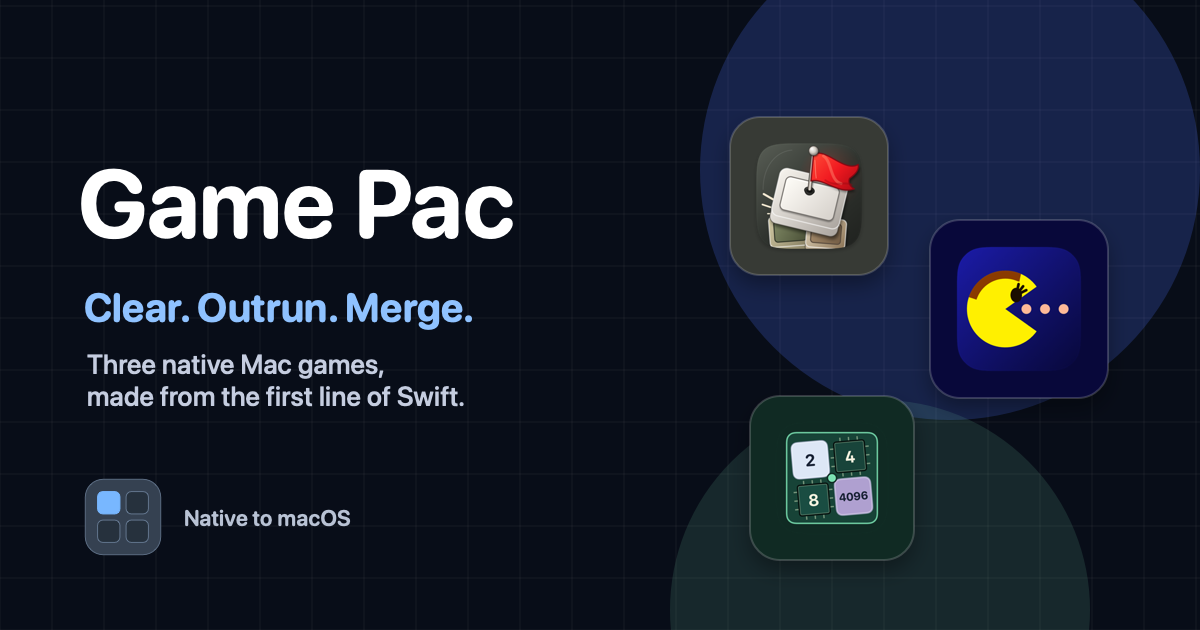
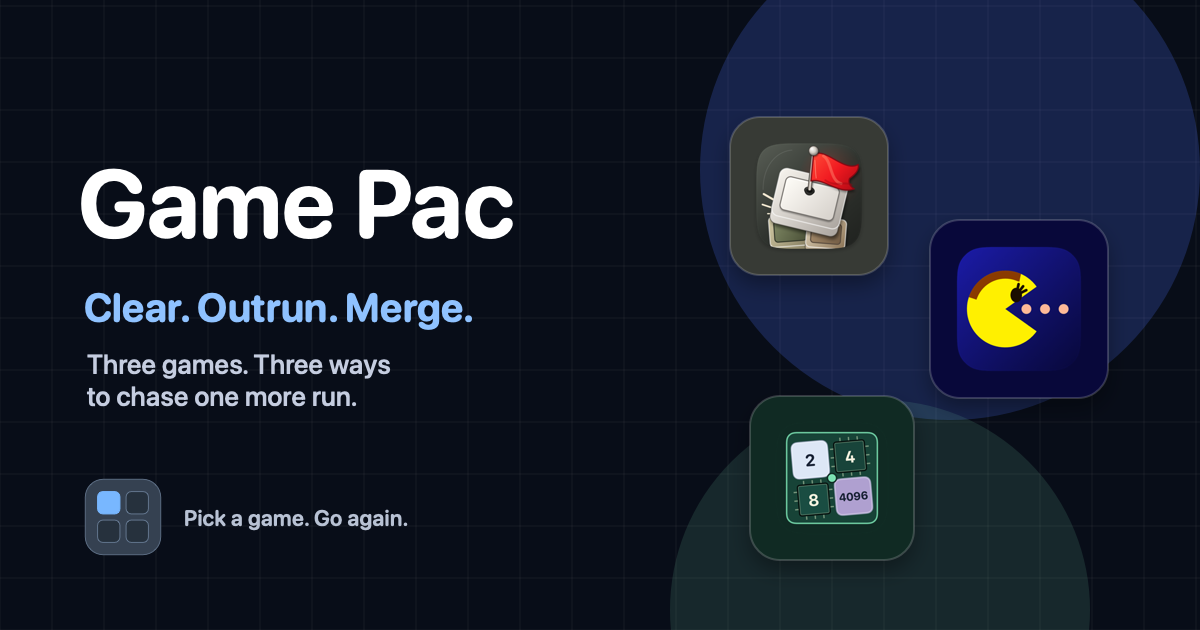
Rewrite site copy around play

Changed region(s): [[0.0617, 0.5429, 0.4008, 0.6635], [0.1542, 0.8143, 0.3392, 0.8444]]

diff --git a/index.html b/index.html
@@ -4,21 +4,21 @@
     <meta charset="utf-8">
     <meta name="viewport" content="width=device-width, initial-scale=1">
     <meta name="color-scheme" content="light dark">
-    <title>Game Pac — Three Native Games for Mac</title>
+    <title>Game Pac — Clear. Outrun. Merge.</title>
     <meta
       name="description"
-      content="Clear mines, chase high scores, and merge tiles in three native macOS games built by hand in SwiftUI."
+      content="Clear minefields, outrun four pursuers, and build bigger tiles in three games for Mac."
     >
     <meta property="og:type" content="website">
     <meta property="og:site_name" content="Game Pac">
-    <meta property="og:title" content="Game Pac — Three Native Games for Mac">
+    <meta property="og:title" content="Game Pac — Clear. Outrun. Merge.">
     <meta
       property="og:description"
-      content="Clear mines, chase high scores, and merge tiles in three native Mac games."
+      content="Clear the board. Outrun the chase. Build the next big tile."
     >
     <!-- Replace with the absolute GitHub Pages URL after the site is published. -->
     <meta property="og:image" content="./assets/og-game-pac.png">
-    <meta property="og:image:alt" content="Game Pac and its three native Mac games">
+    <meta property="og:image:alt" content="Mine Sweeper, Dottie, and Tilly in the Game Pac collection">
     <meta name="theme-color" content="#f7f6fb" media="(prefers-color-scheme: light)">
     <meta name="theme-color" content="#090f20" media="(prefers-color-scheme: dark)">
     <link rel="icon" type="image/png" href="./assets/favicon.png">
@@ -37,19 +37,19 @@
       </a>
       <nav aria-label="Primary navigation">
         <a href="#games">Games</a>
-        <a href="#collection">Why Game Pac</a>
-        <a href="#launcher">What’s Next</a>
+        <a href="#collection">One More Round</a>
+        <a href="#launcher">Coming Soon</a>
       </nav>
     </header>
 
     <main id="main-content">
       <section class="hero" id="top" aria-labelledby="hero-title">
         <div class="hero-copy">
-          <p class="eyebrow">Three native Mac games</p>
+          <p class="eyebrow">Three games. One more go.</p>
           <h1 id="hero-title">Game Pac</h1>
           <p class="hero-tagline">Clear. Outrun. Merge.</p>
           <p class="hero-pitch">
-            Clear a minefield. Chase a high score. Build an impossible tile. Every game is made for the Mac from the first line of Swift to the last note of sound.
+            Clear the minefield, outsmart the chase, or keep the board alive long enough to build something huge. Pick a game and go again.
           </p>
           <div class="hero-actions">
             <a class="button button-primary" href="#games">Choose a Game</a>
@@ -61,11 +61,11 @@
           <span class="maze-trail" aria-hidden="true"></span>
           <a class="hero-game hero-game-minesweeper" href="#minesweeper">
             <img src="./assets/minesweeper-icon.png" alt="" width="128" height="128">
-            <span><small>Think</small><strong>Mine Sweeper</strong></span>
+            <span><small>Clear</small><strong>Mine Sweeper</strong></span>
           </a>
           <a class="hero-game hero-game-dottie" href="#dottie">
             <img src="./assets/dottie-icon.png" alt="" width="144" height="144">
-            <span><small>Dash</small><strong>Dottie</strong></span>
+            <span><small>Chase</small><strong>Dottie</strong></span>
           </a>
           <a class="hero-game hero-game-tilly" href="#tilly">
             <img src="./assets/tilly-icon.png" alt="" width="128" height="128">
@@ -76,9 +76,9 @@
 
       <section class="games-section" id="games" aria-labelledby="games-title">
         <div class="section-heading">
-          <p class="eyebrow">Pick your play style</p>
-          <h2 id="games-title">Three ways to lose track of time.</h2>
-          <p>Thoughtful puzzles, quick arcade turns, and plenty of room for one more try.</p>
+          <p class="eyebrow">Choose your challenge</p>
+          <h2 id="games-title">Which one has your name on it?</h2>
+          <p>Pick a board, chase a score, and tell yourself this is the last run.</p>
         </div>
 
         <article class="game-card game-card-minesweeper" id="minesweeper">
@@ -106,20 +106,20 @@
             </header>
             <p class="game-hook">Read the board. Mark the danger. Clear every safe square.</p>
             <p class="game-description">
-              The classic logic puzzle, rebuilt as a native Mac game with a guided lesson, persistent records, and four complete visual themes.
+              Follow the clues, flag the danger, and push for a faster clear across four board sizes. New to the grid? The guided lesson gets you moving.
             </p>
             <ul class="feature-list" aria-label="Mine Sweeper highlights">
               <li>4 themes</li>
               <li>4 board sizes</li>
-              <li>Keyboard + VoiceOver</li>
-              <li>Procedural sound</li>
+              <li>Guided lesson</li>
+              <li>Personal bests</li>
             </ul>
             <div class="game-actions">
               <!-- The permanent asset was verified live on 2026-08-25; make-dmg.sh now reproduces it for future releases. -->
               <a class="button button-primary" href="https://github.com/kudige79/minesweeper/releases/latest/download/MineSweeper.dmg">Download Mine Sweeper</a>
-              <a class="text-link" href="https://github.com/kudige79/minesweeper/releases/latest">View Releases</a>
+              <a class="text-link" href="https://github.com/kudige79/minesweeper/releases/latest">More Downloads</a>
             </div>
-            <p class="requirements">macOS 14 or later · Signed and notarized · Automatic updates</p>
+            <p class="requirements">macOS 14 or later</p>
           </div>
         </article>
 
@@ -146,21 +146,21 @@
                 <h3>Dottie</h3>
               </div>
             </header>
-            <p class="game-hook">Sweep the maze. Read the chase. Go back for every last dot.</p>
+            <p class="game-hook">Grab every dot. Outsmart the chase. Clear the maze.</p>
             <p class="game-description">
-              Steer through a precise 28 × 31 maze while four pursuers follow distinct chase rules. Every sprite and sound is generated in code.
+              Collect every dot while four pursuers close in with distinct chase rules. Turn up the difficulty when the maze starts feeling safe.
             </p>
             <ul class="feature-list" aria-label="Dottie highlights">
               <li>3 themes</li>
               <li>4 difficulty levels</li>
-              <li>Keyboard + VoiceOver</li>
+              <li>4 chase styles</li>
               <li>High scores</li>
             </ul>
             <div class="game-actions">
               <a class="button button-primary" href="https://github.com/kudige79/dottie/releases/latest/download/Dottie.dmg">Download Dottie</a>
-              <a class="text-link" href="https://github.com/kudige79/dottie/releases/latest">View Releases</a>
+              <a class="text-link" href="https://github.com/kudige79/dottie/releases/latest">More Downloads</a>
             </div>
-            <p class="requirements">macOS 14 or later · Signed and notarized · Automatic updates</p>
+            <p class="requirements">macOS 14 or later</p>
           </div>
         </article>
 
@@ -187,52 +187,52 @@
                 <h3>Tilly</h3>
               </div>
             </header>
-            <p class="game-hook">Slide. Merge. Make room for the next big number.</p>
+            <p class="game-hook">Slide. Merge. Make room for something huge.</p>
             <p class="game-description">
-              Every tile travels as far as it can, so a calm board can become a tight puzzle in one move. Build toward each board’s honest target.
+              Slide every tile as far as it can go, chain equal numbers, and protect the space you need to reach the next target.
             </p>
             <ul class="feature-list" aria-label="Tilly highlights">
               <li>2 themes</li>
-              <li>4 board sizes</li>
-              <li>Keyboard + VoiceOver</li>
-              <li>Records</li>
+              <li>4 challenges</li>
+              <li>Target tiles</li>
+              <li>Records to beat</li>
             </ul>
             <div class="game-actions">
               <!-- The permanent asset and v1.0.0 release were verified live on 2026-08-25. -->
               <a class="button button-primary" href="https://github.com/kudige79/tilly/releases/latest/download/Tilly.dmg">Download Tilly</a>
-              <a class="text-link" href="https://github.com/kudige79/tilly/releases/latest">View Releases</a>
+              <a class="text-link" href="https://github.com/kudige79/tilly/releases/latest">More Downloads</a>
             </div>
-            <p class="requirements">macOS 14 or later · Signed and notarized · Automatic updates</p>
+            <p class="requirements">macOS 14 or later</p>
           </div>
         </article>
       </section>
 
       <section class="collection-strip" id="collection" aria-labelledby="collection-title">
         <div class="section-heading section-heading-compact">
-          <p class="eyebrow">The craft behind the play</p>
-          <h2 id="collection-title">Made for the Mac. Made to be played.</h2>
-          <p>One shared standard underneath three very different games.</p>
+          <p class="eyebrow">Built for rematches</p>
+          <h2 id="collection-title">There’s always another run.</h2>
+          <p>Quick to start, hard to put down, and packed with reasons to come back.</p>
         </div>
         <div class="collection-grid">
           <div class="collection-point">
-            <span class="point-mark point-mark-native" aria-hidden="true">⌘</span>
-            <h3>Built for macOS</h3>
-            <p>Universal SwiftUI apps that feel at home on the Mac.</p>
+            <span class="point-mark point-mark-native" aria-hidden="true">GO</span>
+            <h3>Jump straight in</h3>
+            <p>Clear rules get you moving fast. The challenge takes care of the rest.</p>
           </div>
           <div class="collection-point">
-            <span class="point-mark point-mark-code" aria-hidden="true">{ }</span>
-            <h3>Crafted in code</h3>
-            <p>Boards, sprites, feedback, and sound are made for each game.</p>
+            <span class="point-mark point-mark-code" aria-hidden="true">PB</span>
+            <h3>Beat your best</h3>
+            <p>Faster clears, higher scores, and bigger tiles turn every run into a rematch.</p>
           </div>
           <div class="collection-point">
-            <span class="point-mark point-mark-play" aria-hidden="true">⌨</span>
-            <h3>Playable your way</h3>
-            <p>Keyboard-first controls with VoiceOver support throughout.</p>
+            <span class="point-mark point-mark-play" aria-hidden="true">MIX</span>
+            <h3>Change the challenge</h3>
+            <p>Swap boards, themes, and difficulty whenever you want a different kind of test.</p>
           </div>
           <div class="collection-point">
-            <span class="point-mark point-mark-update" aria-hidden="true">↻</span>
-            <h3>Ready to stay current</h3>
-            <p>Signed and notarized releases update themselves with Sparkle.</p>
+            <span class="point-mark point-mark-update" aria-hidden="true">+1</span>
+            <h3>Go one more time</h3>
+            <p>Every finish, close call, and bad move gives you a reason to hit restart.</p>
           </div>
         </div>
       </section>
@@ -251,9 +251,9 @@
         </div>
         <div>
           <p class="eyebrow">Next unlock</p>
-          <h2 id="launcher-title">The whole collection, one click away.</h2>
+          <h2 id="launcher-title">All three games. One place to play.</h2>
           <p>
-            The upcoming Game Pac app will discover, download, run, and update every title from one native Mac launcher.
+            The upcoming Game Pac app brings the whole collection together, so your next round is never far away.
           </p>
           <span class="coming-chip">Game Pac app · coming soon</span>
         </div>
@@ -262,10 +262,10 @@
 
     <footer>
       <div class="footer-copy">
-        <p class="footer-signoff">Game Pac — native games made for macOS.</p>
+        <p class="footer-signoff">Game Pac — clear, chase, merge, repeat.</p>
         <p>Copyright © 2026 Panduranga Shenoy Kudige. All rights reserved.</p>
       </div>
-      <nav aria-label="Game repositories">
+      <nav aria-label="More about each game">
         <a href="https://github.com/kudige79/minesweeper">Mine Sweeper</a>
         <a href="https://github.com/kudige79/dottie">Dottie</a>
         <a href="https://github.com/kudige79/tilly">Tilly</a>

diff --git a/Scripts/render-brand.swift b/Scripts/render-brand.swift
@@ -232,7 +232,7 @@ let social = makePNG(width: 1200, height: 630) { rect in
 
     NSString(string: "Game Pac").draw(at: NSPoint(x: 78, y: 372), withAttributes: titleStyle)
     NSString(string: "Clear. Outrun. Merge.").draw(at: NSPoint(x: 84, y: 300), withAttributes: hookStyle)
-    NSString(string: "Three native Mac games,\nmade from the first line of Swift.").draw(
+    NSString(string: "Three games. Three ways\nto chase one more run.").draw(
         in: NSRect(x: 87, y: 190, width: 570, height: 92),
         withAttributes: captionStyle
     )
@@ -242,6 +242,6 @@ let social = makePNG(width: 1200, height: 630) { rect in
         .font: roundedFont(size: 22, weight: .semibold),
         .foregroundColor: NSColor(srgbRed: 184.0 / 255.0, green: 194.0 / 255.0, blue: 212.0 / 255.0, alpha: 1)
     ]
-    NSString(string: "Native to macOS").draw(at: NSPoint(x: 184, y: 99), withAttributes: signatureStyle)
+    NSString(string: "Pick a game. Go again.").draw(at: NSPoint(x: 184, y: 99), withAttributes: signatureStyle)
 }
 try social.write(to: outputDirectory.appendingPathComponent("og-game-pac.png"), options: .atomic)
